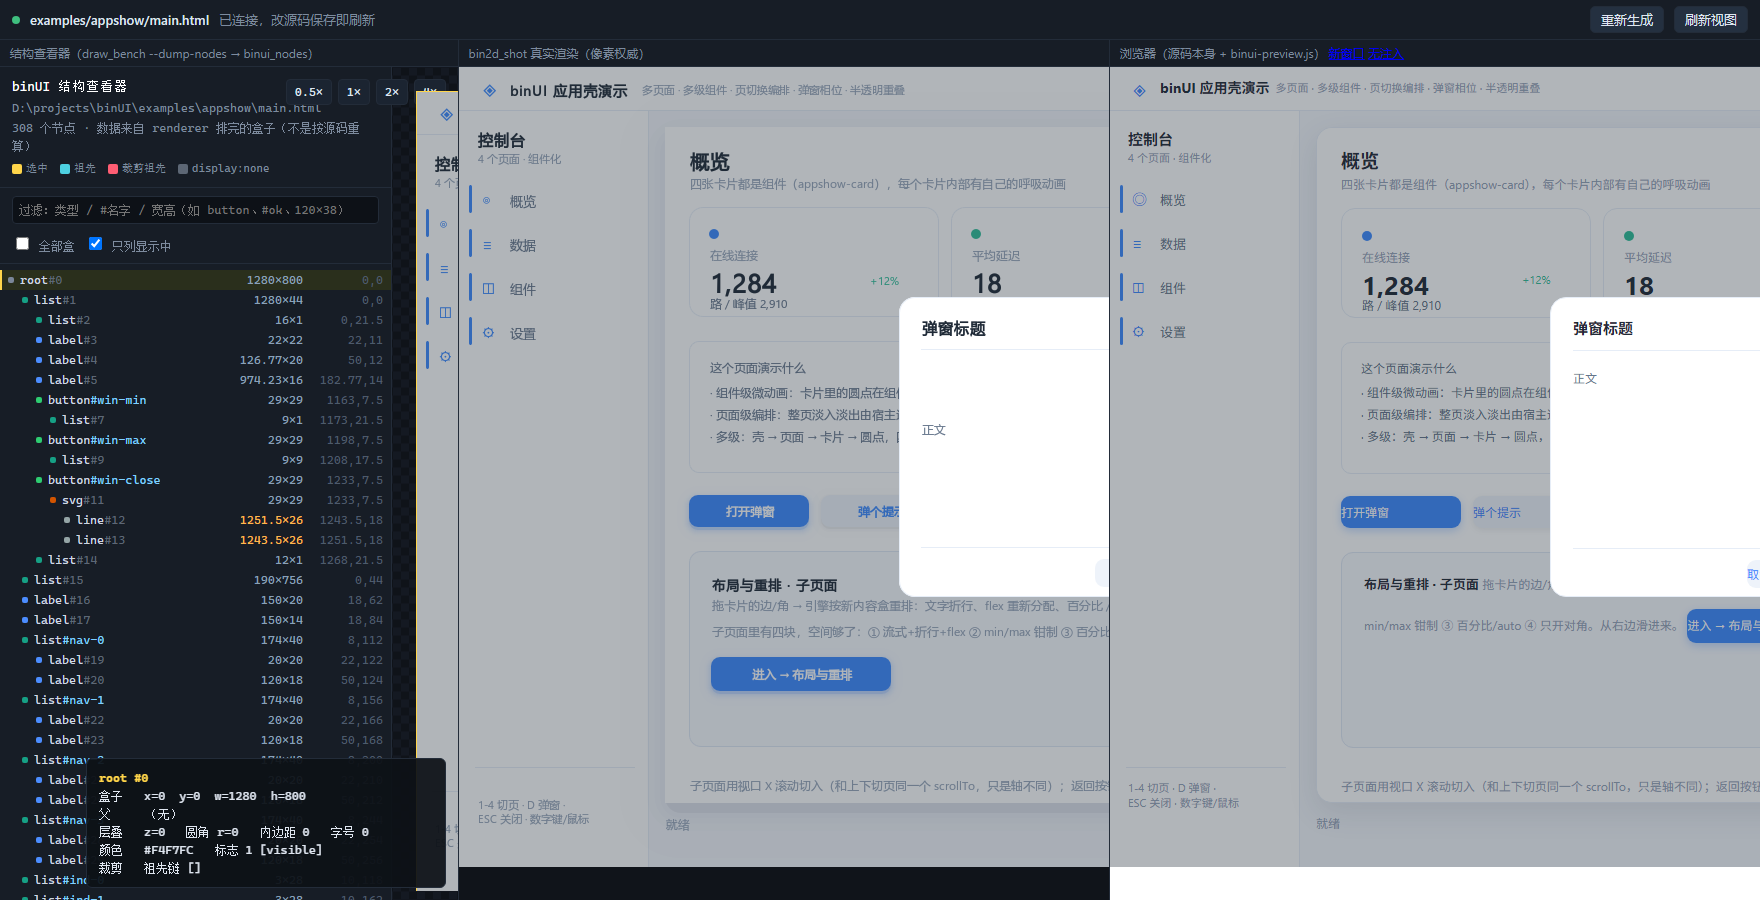
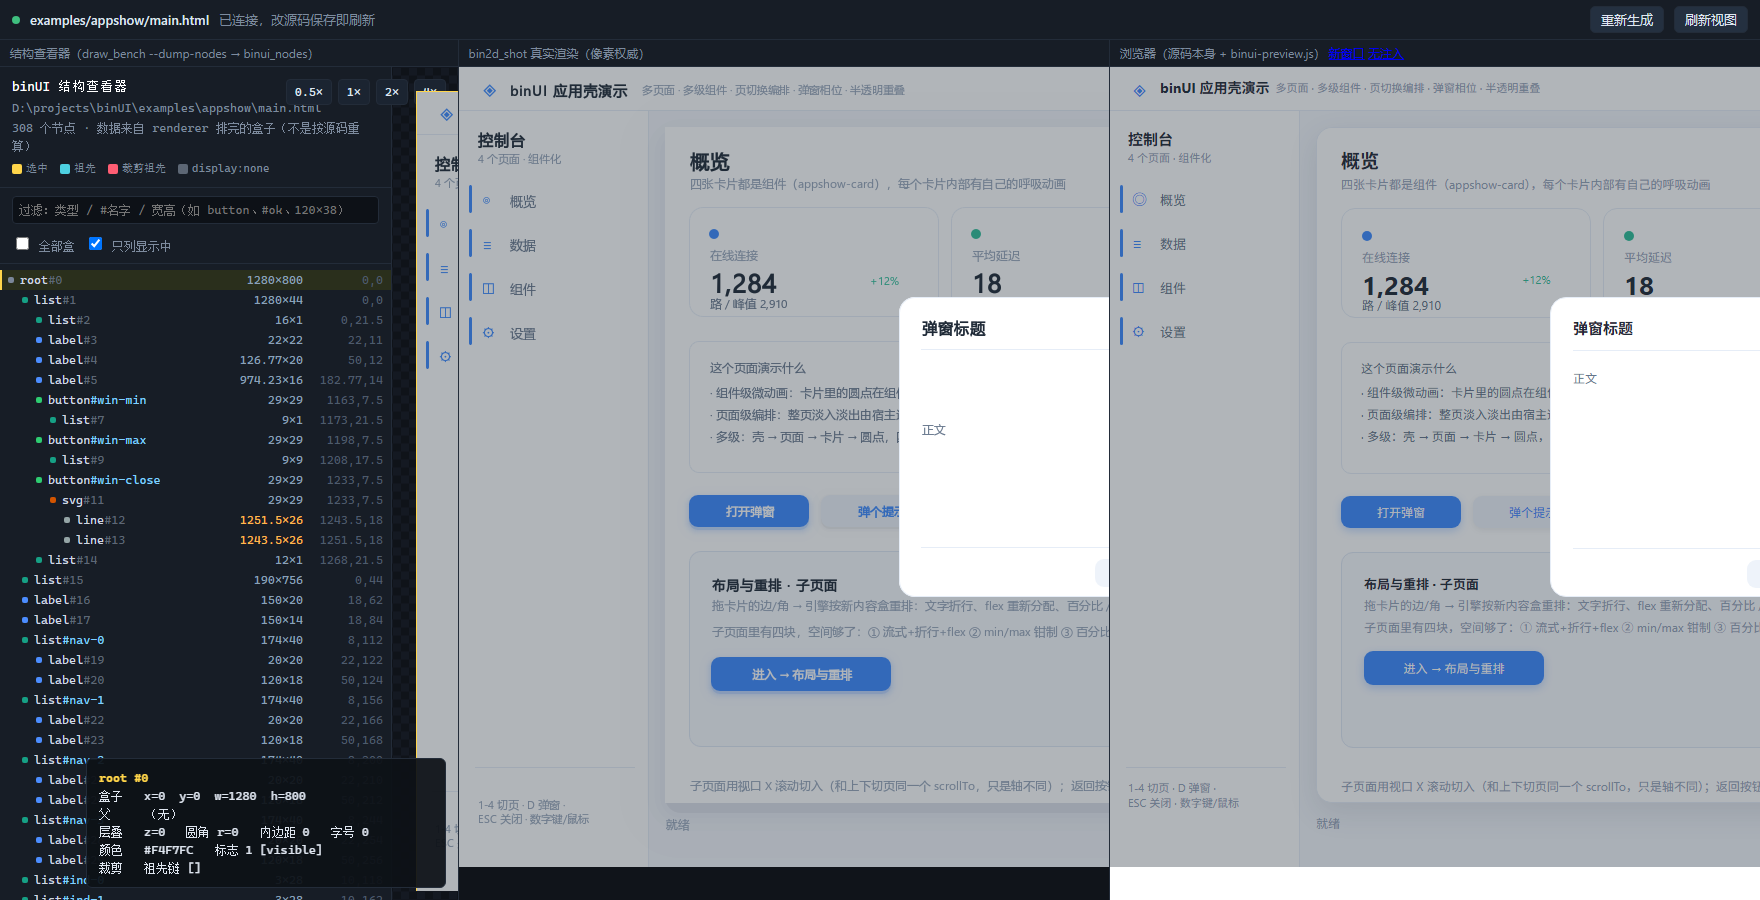
docs: 截图换成最终版（独立视图加了 ?class= 皮肤类）
- 独立视图新增 ?class=bui-tb 这类"宿主皮肤类"参数：片段的样式规则挂在宿主 class 上，
  以前单独看组件得自己补 class，现在一行查询参数就够
- 绝对定位包含块补齐的范围收紧到"源码自己的盒"（组件宿主 / 窗口包裹层），
  不再碰 dev 页自己搭的工具栏与舞台 —— 独立视图里标题栏三颗按钮的图标这才归位
- docs/img 四张图重新出：browser-appshow / browser-components / browser-component-4x
  （4× + 盒边界）/ dev-server-panes（三栏）

Changed region(s): [[0.75, 0.6222, 1.0, 0.7778], [0.75, 0.56, 0.8125, 0.5911], [0.8438, 0.56, 0.875, 0.5911]]

diff --git a/tools/binui-preview.js b/tools/binui-preview.js
@@ -314,18 +314,21 @@
   // 按钮的图标跑到了标题栏左上角）。这里给"有绝对定位子元素、自己却静态"的父级补
   // position:relative —— 对 binUI 是无操作，对浏览器是把语义拉回同一套。
   function shimAbsContainingBlock() {
-    var all = document.querySelectorAll('body *');
+    // 只在"源码自己的盒"里做：组件宿主 / 窗口包裹层，避开 dev 页自己搭的工具栏与舞台
+    var scopes = document.querySelectorAll('[data-component],[data-binui-window]');
     var touched = 0;
-    for (var i = 0; i < all.length; i++) {
-      var el = all[i];
-      if (el.closest('[data-binui-preview-ui]')) continue;
-      var cs = getComputedStyle(el);
-      if (cs.position !== 'absolute' && cs.position !== 'fixed') continue;
-      var p = el.parentElement;
-      if (!p || p === document.body || p === document.documentElement) continue;
-      if (getComputedStyle(p).position !== 'static') continue;
-      p.style.position = 'relative';
-      touched++;
+    for (var s = 0; s < scopes.length; s++) {
+      var all = scopes[s].querySelectorAll('*');
+      for (var i = 0; i < all.length; i++) {
+        var el = all[i];
+        var cs = getComputedStyle(el);
+        if (cs.position !== 'absolute' && cs.position !== 'fixed') continue;
+        var p = el.parentElement;
+        if (!p || p === document.body || p === document.documentElement) continue;
+        if (getComputedStyle(p).position !== 'static') continue;
+        p.style.position = 'relative';
+        touched++;
+      }
     }
     state.absShim = touched;
     return touched;
@@ -460,7 +463,7 @@
 
   // ---------------------------------------------------------------- 组件独立视图
   // /__binui/c/<相对路径>?zoom=4&grid=1&host=titlebar&w=780&h=45&flex=1&text=…&<参数>=…
-  var RESERVED = { zoom: 1, grid: 1, box: 1, host: 1, w: 1, h: 1, flex: 1, text: 1, bg: 1 };
+  var RESERVED = { zoom: 1, grid: 1, box: 1, host: 1, w: 1, h: 1, flex: 1, text: 1, bg: 1, 'class': 1 };
 
   function flag(q, name) {
     if (!q.has(name)) return false;
@@ -534,6 +537,7 @@
     if (flag(q, 'flex')) { host.style.display = 'flex'; host.style.alignItems = 'center'; }
     if (q.get('gap')) host.style.gap = toLen(q.get('gap'));
     if (q.get('bg')) host.style.background = q.get('bg');
+    if (q.get('class')) host.className = q.get('class');   // 组件皮肤类（宿主那条 class）
     if (q.get('text')) host.textContent = q.get('text');
     q.forEach(function (v, k) {
       if (RESERVED[k]) return;
